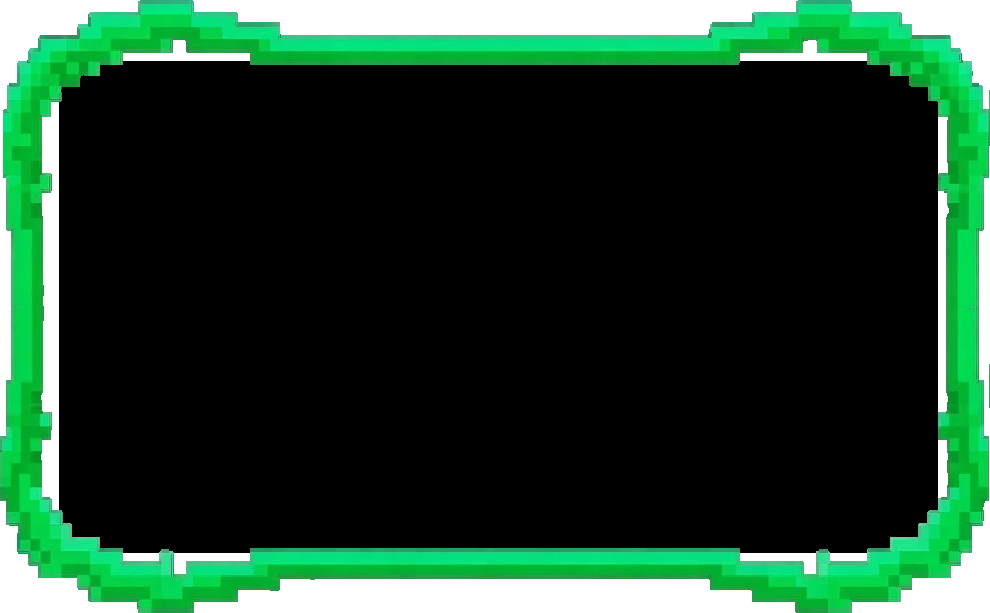
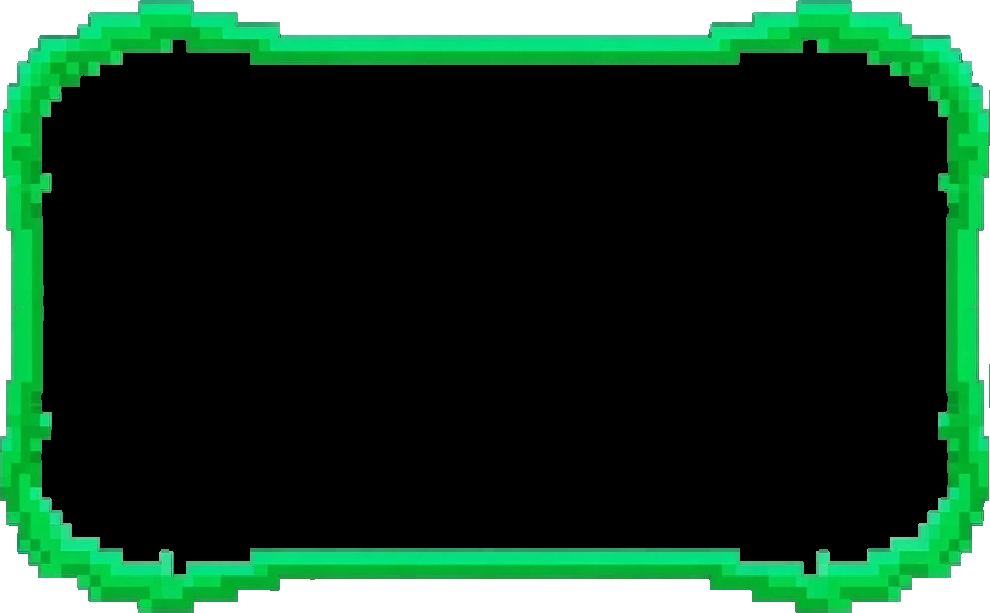
fix(game): premio VICTORY — halo blanco del marco verde fundido a negro (invisible sobre el fondo blanco del editor), titulo mas abajo, CONTINUE mas arriba y el 1,200 $PILL junto en su propia linea

diff --git a/game/index.html b/game/index.html
@@ -2155,7 +2155,7 @@
             // + subtitulo) va centrado entre el titulo y el CONTINUE.
             css += 'body.pixel-pack #prizeModal .gameModalBox.prize-hero{border:none!important;border-radius:0!important;' +
                 'box-shadow:none!important;background:transparent url(' + cartelHeroUrl('prize-panel') + ') center/100% 100% no-repeat!important;' +
-                'image-rendering:pixelated;max-width:470px;aspect-ratio:990/613;display:flex;flex-direction:column;padding:36px 44px 32px}' +
+                'image-rendering:pixelated;max-width:470px;aspect-ratio:990/613;display:flex;flex-direction:column;padding:52px 44px 46px}' +
                 'body.pixel-pack .prize-hero #prizeAmount{margin-top:auto!important}' +
                 'body.pixel-pack .prize-hero #prizeSubtitle{margin-bottom:auto!important}';
         }
@@ -4117,7 +4117,7 @@
             if (msg.reason === 'victory') {
                 setOverlayTitle(title, 'victory', 'VICTORY!', '#ffce3d');
                 setAmt(msg.amount);
-                sub.innerHTML = '5 KILLS · Total carry won: <b style="color:#00ff88">' + fmt(msg.carry) + '</b> $PILL';
+                sub.innerHTML = '5 KILLS · Total carry won:<br><b style="color:#00ff88">' + fmt(msg.carry) + '</b> $PILL';
             } else if (msg.reason === 'cashout') {
                 setOverlayTitle(title, 'cashout', 'CASHOUT', '#00ff88');
                 setAmt(msg.amount);
